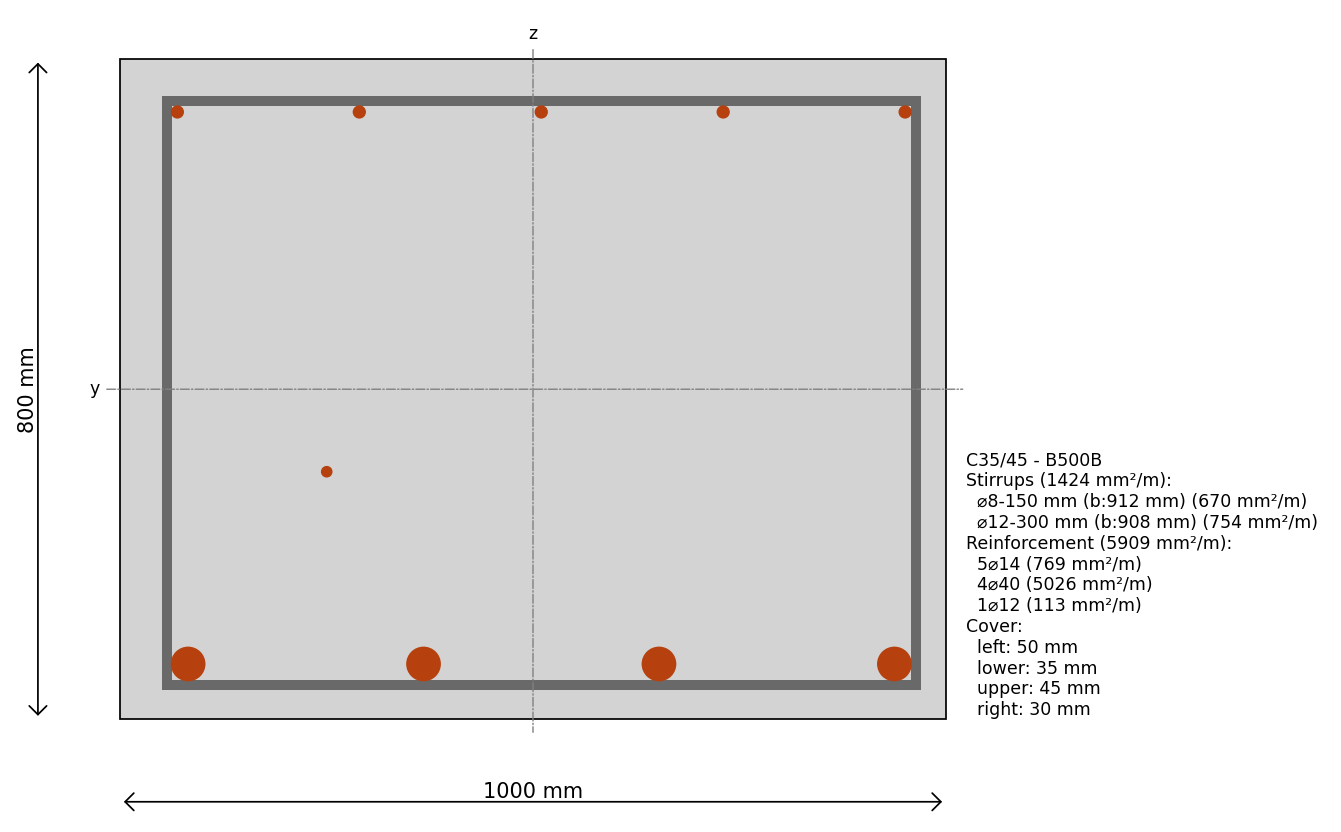
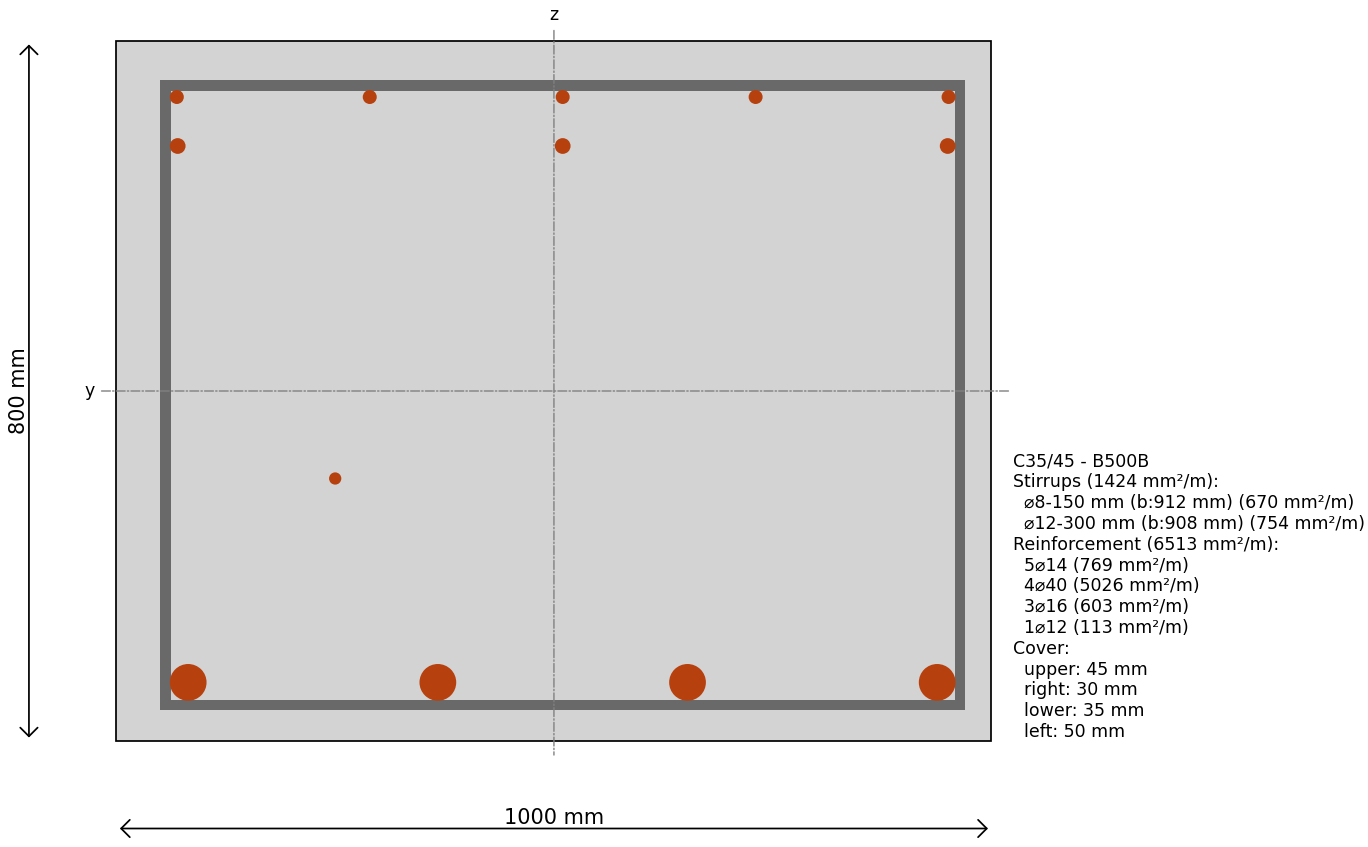
extend example with third layer

Changed region(s): [[0.0611, 0.0312, 1.0, 0.875], [0.0917, 0.9375, 0.7338, 1.0], [0.0, 0.0625, 0.0306, 0.875]]

diff --git a/docs/source/examples/rectangular_reinforced_cross_section.py b/docs/source/examples/rectangular_reinforced_cross_section.py
@@ -34,6 +34,15 @@ cs.add_longitudinal_reinforcement_by_quantity(
     material=steel,
 )
 
+# add a second layer of reinforcement to the cross-section
+cs.add_longitudinal_reinforcement_by_quantity(
+    n=3,
+    diameter=16,
+    edge="upper",
+    material=steel,
+    cover=100,
+)
+
 # Add stirrups to the cross-section
 cs.add_stirrup_along_edges(
     diameter=8,
